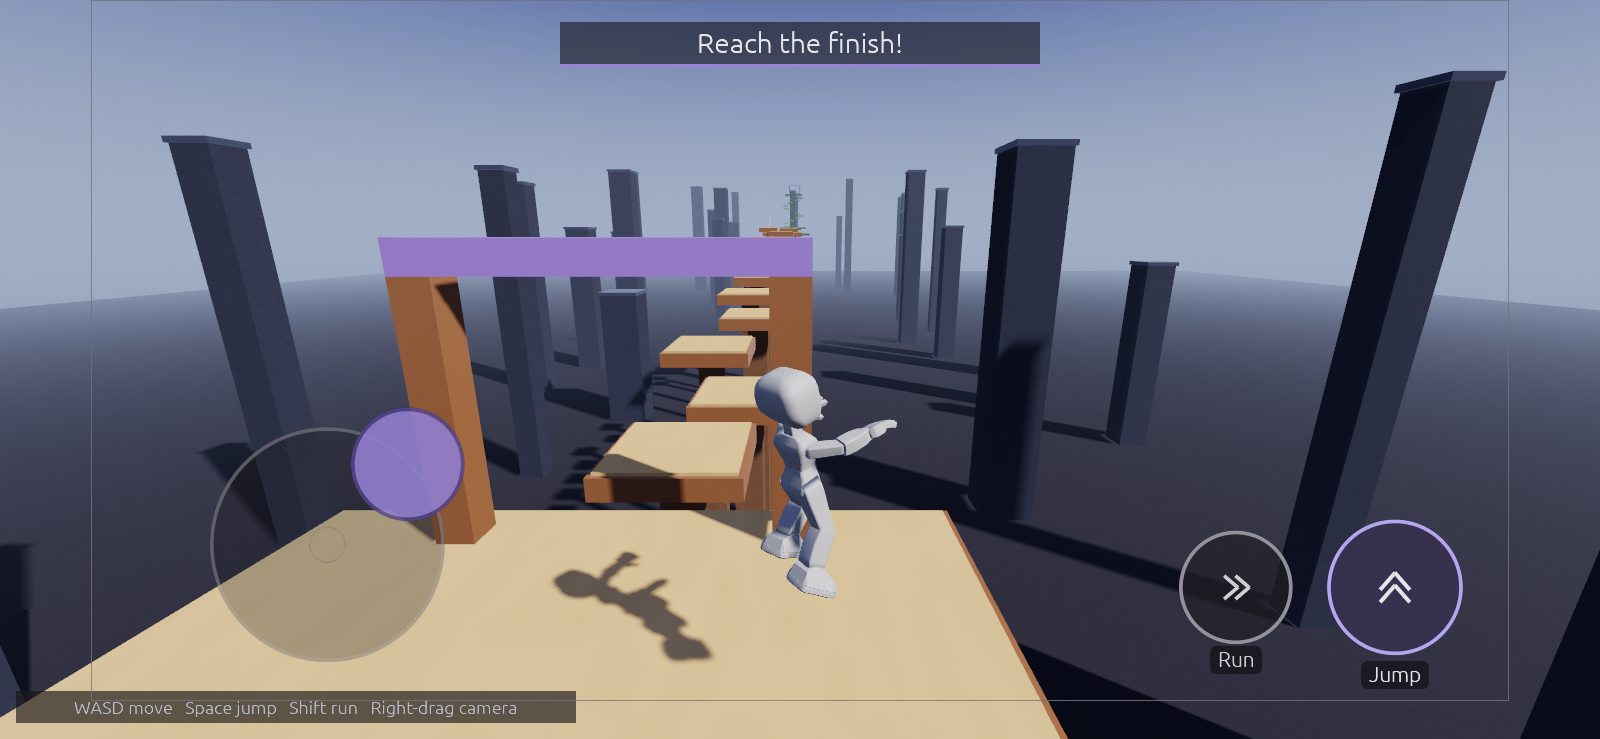
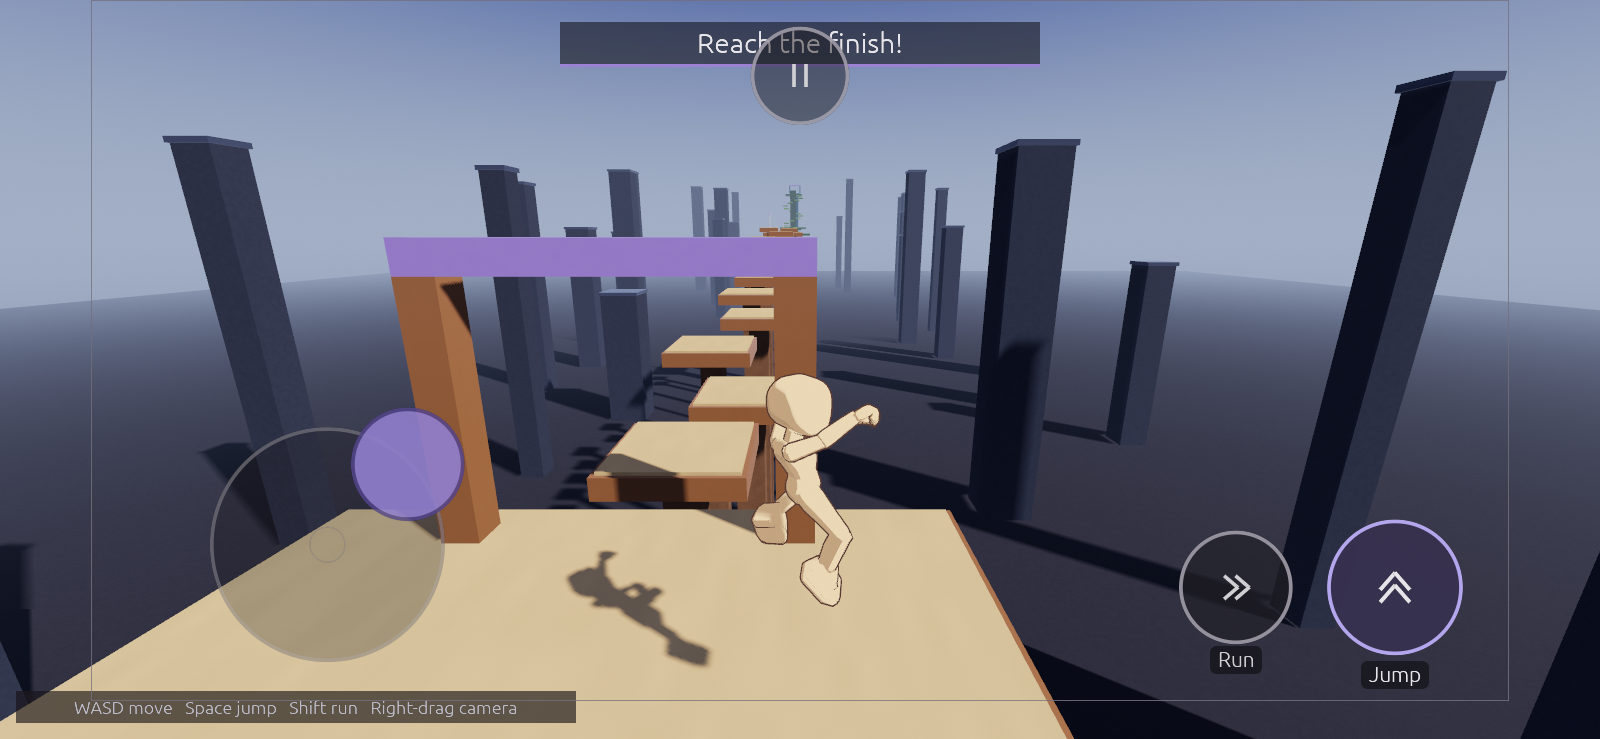
fix(player): hide the controls hint on touch; shots with the menu button
The touch overlay labels its own buttons, so #323's in-play hint (touch
glyphs for Jump, Run, Menu) only covered the game's HUD. New screenshots
show the menu button and the Player menu opened by a tap.

diff --git a/crates/metallic_player/src/menu/hud.rs b/crates/metallic_player/src/menu/hud.rs
@@ -5,7 +5,9 @@
 use super::glyph_paint::{Ink, glyph_width, paint_glyph};
 use super::theme;
 use egui::{Align2, Color32, FontId, LayerId, Order, Rect, Shape, Stroke, pos2, vec2};
-use metallic_runtime::input::{ActionId, CHARACTER_CONTROLS, InputRuntime, MENU_ACTION};
+use metallic_runtime::input::{
+    ActionId, CHARACTER_CONTROLS, DeviceKind, InputRuntime, MENU_ACTION,
+};
 
 /// Seconds the plate stays.
 const SHOW_SECONDS: f64 = 8.0;
@@ -26,7 +28,7 @@ impl ControlsHint {
         Self::default()
     }
 
-    /// Paints the hint over the game (not while the menu is open).
+    /// Paints the hint over the game (not while the menu is open, not on touch).
     pub fn paint(&mut self, ctx: &egui::Context, rt: &InputRuntime, now: f64) {
         let changes = rt.glyph_changes();
         if self.seen != Some(changes) {
@@ -37,6 +39,10 @@ impl ControlsHint {
                 rt.find_action(&format!("{CHARACTER_CONTROLS}/Run")),
                 rt.find_action(MENU_ACTION),
             ];
+        }
+        // On touch the overlay's buttons carry their own labels (#252).
+        if rt.last_device() == DeviceKind::Touch {
+            return;
         }
         let Some(at) = self.shown_at else { return };
         let age = now - at;

diff --git a/docs/agents/252-touch-controls.md b/docs/agents/252-touch-controls.md
@@ -29,8 +29,6 @@ Player from `ShowOnTouch` actions, the touch input path through `InputRuntime`, 
   `TouchEnabled` true), real `WindowEvent::Touch` (px per dp = 0.6 x scale factor, zero insets on desktop), 140 ms fade
   (`--reduce-motion`: instant), `TouchImage` PNGs inside the project, draw-time log at the end of an emulated run.
   Headless `--emulate` routes finger lines of `--input-script` through the same controls.
-- Fixed on the way: `Overlay::draw` dropped egui's `TexturesDelta` without clearing it, which panics in debug builds
-  (`debug_assert` in epaint 0.37), so a debug windowed Player panicked on its first frame.
 
 ## Tests
 - `src/input/touch/tests.rs`: mockup positions (phone), tablet sizes, the rules over 3 presets x 2 orientations x 1-6
@@ -48,8 +46,8 @@ Player from `ShowOnTouch` actions, the touch input path through `InputRuntime`, 
   as 6 in all (primary + S1..S5); S6's slot is a spare. Raising `MAX_BUTTONS` to 7 is one constant.
 - The mockup's tablet primary sits 28 dp from the corner; the spec text says 24. Built as the spec says.
 - GUI hit-testing (a touch that lands on a GUI button) is not built: the Player GUI has no interactive buttons yet.
-- Stick mode (Fixed/Floating) and the opacity slider are fields (`DeviceProfile::stick_mode`, `OverlayStyle::opacity`)
-  for #254's settings page; no UI here.
+- Stick mode and opacity are saved in the player's overrides (`"touch": {"stick", "opacity"}`) and the overlay
+  reads them, but the Controls page has no Touch tab to change them yet.
 - Safe-area insets: winit 0.30 has no safe-area API, so desktop uses zero (emulation uses the presets).
 
 ## Commands that matter
@@ -78,3 +76,14 @@ Finger script lines: `20 touch0 Down pos 170 290`, `28 touch0 Move pos 215 245`,
 - Tests: title change keeps held fingers (unit and Luau e2e), a held button follows its action to another slot without
   pressing the action that takes its old control, a removed button cancels, stick finger over a button, Cancel on the
   stick, focus loss, non-finite Up, reused id, two pointer fingers.
+
+## Merge with #323 (Controls page)
+- Glyphs for `TouchButton1`..`7` (touch art); `glyph.rs`'s `unreachable!` for an empty slot now returns the unbound
+  glyph. `Control::is_touch` drives `control_device()` and the glyph folder.
+- The built-in `Metallic.System/Menu` has `ShowOnTouch`: phones get the menu button, and tapping it opens the Player
+  menu (test). While the menu is open, fingers (and the emulated mouse) work it like a mouse.
+- `PlayerOverrides::touch` (`TouchSettings`: stick mode, opacity 0.25 to 1) is read, written and reset with the other
+  overrides; `TouchOverlay::update` applies it each frame (test).
+- The in-play controls hint of #323 hides while the last device is touch (the overlay labels its own buttons).
+- Open: the menu button sits top centre as spec 7.2 says, which covers Parkour's top-centre banner a little
+  (`252-shots/phone-held.png`); the banner or the button's place may need a change.
